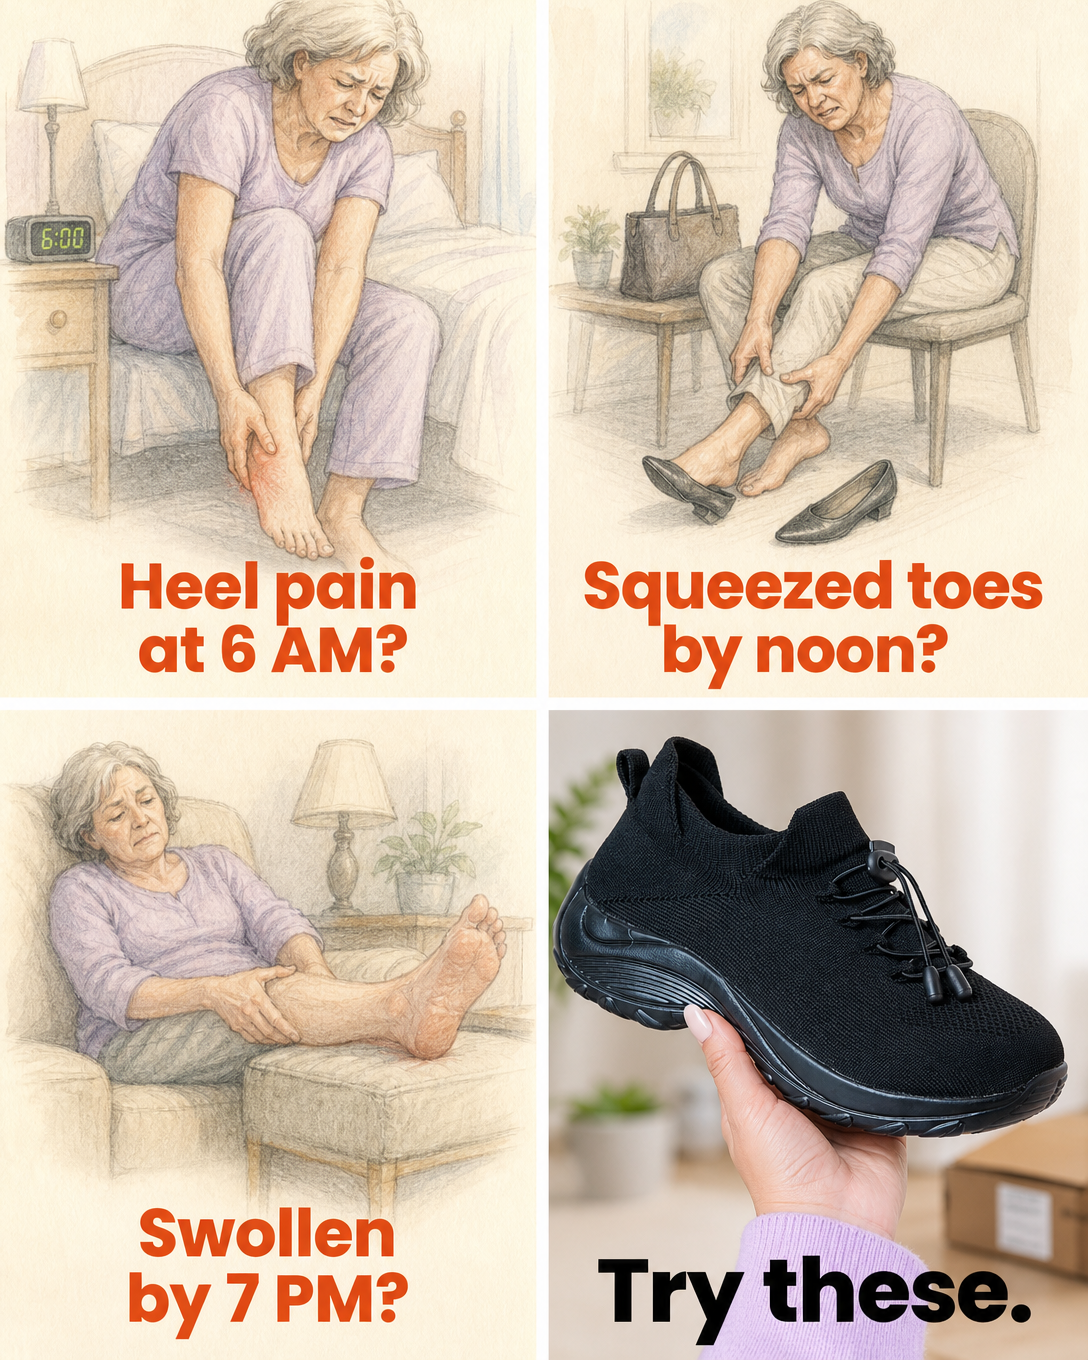
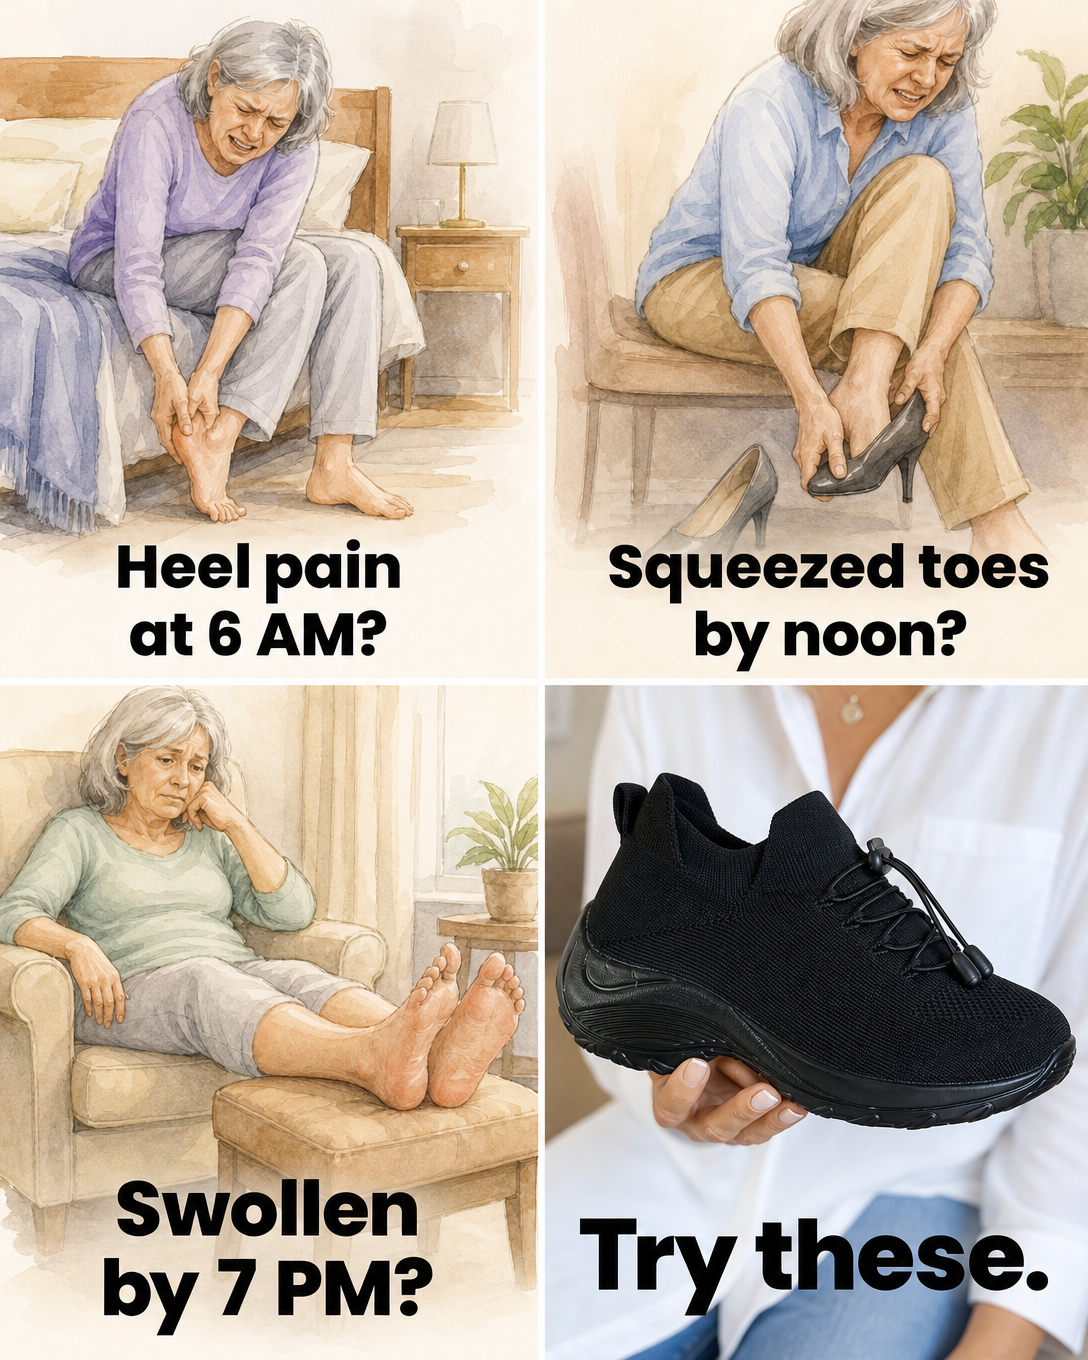
Comfort Wear: readable uniform text rule (no purple/colored words, same-size headline lines); re-render 17 W45 ads that broke it
Claude-Session: https://claude.ai/code/session_01Mp8pTr2DisTX5B79ZizYoN

diff --git a/ads/brands/comfortwear/routine_prompt.md b/ads/brands/comfortwear/routine_prompt.md
@@ -10,7 +10,7 @@ User rules (2026-10-28, apply to every concept):
 - Research every run, in order: (1) our statics with >= $10k spend (research/data/winning_statics.csv) and the current + seasonal winners, and their patterns; (2) the customer voice in research/feedback_pain_points_*.md (re-mine the Drive sheet "ComfortWear Customer Feedback (Responses)" if the file is over a month old; never commit raw rows) and our winning video scripts (research/data/video_transcripts.md) for hooks, objections, story beats and customer phrases; (3) `python ads/atria_pull.py wellness --brand comfortwear`: other health & wellness brands, not only footwear (socks, knee sleeves, supplements, grounding sheets, back-pain devices...), image, active, launched in the last 45 days, running 10+ days. Contact-sheet it (`python ads/contact_sheet.py --brand comfortwear inspiration_wellness_45d.csv --per 40`) and read every page; (4) add a dated "formats found this run" table to research/analysis.md.
 - NEW formats every run: formats come from this run's Atria research. Every concept sets format_name and format_source; formats already in research/format_ledger.json may not be reused (only proven:<slug> layouts from wellness.proven_layouts may repeat, max ~30%). `python ads/format_ledger.py --brand comfortwear check --week <folder>` must print OK before rendering; run `add` after shipping. based_on names the inspiration ad (brand, category, days running), the winner or script it is paired with, and why.
 - Copy: direct response. Pain in her words, agitate, mechanism, proof, one offer line. Headline max ~8 plain words. No puns.
-- Look: realistic, NOT AI (real phone-photo scenes or the inspiration's clean graphic layout, never glossy composites). The headline sits on the image, never in a band above the photo. Natural walking stance. Poppins for every typeset word (ExtraBold headlines, SemiBold labels), never condensed or script fonts. Supporting text large enough for women 60+.
+- Look: realistic, NOT AI (real phone-photo scenes or the inspiration's clean graphic layout, never glossy composites). The headline sits on the image, never in a band above the photo. Natural walking stance. Poppins for every typeset word (ExtraBold headlines, SemiBold labels), never condensed or script fonts. Supporting text large enough for women 60+. Text is only black, deep navy or white, never purple or other colored words (an accent color may only fill a pill or bar behind white text). Every line of the same headline is the same size and weight; supporting text one uniform size.
 - Offer on ~30% of a batch: "40% OFF" + "FREE SHIPPING" + "30-DAY MONEY-BACK GUARANTEE"; "HSA/FSA ELIGIBLE" + "UP TO 30% SAVINGS" may replace or join it. Small line, pill or seal, never the whole ad. Never 45 days. Black Friday week (Nov 9) uses program.black_friday_week_2026_11_09 instead.
 - Colors: ~80% best sellers spread across black_purple, all_black, navy_blue, black_white, red_burgundy, black_mint (none over ~20%), ~20% purple, grey_pink or light_grey. Shoes always at true proportions. Women only wear the shoe.
 - Budget: render one 4:5 per concept with `--quality medium` (~$0.08 per ad); at most one re-render per concept. Report cost per ad.
@@ -26,7 +26,7 @@ Steps:
 1. Log feedback: for each earlier folder in the Drive folder "Comfort Wear – Weekly Static Ads" (brand.json -> drive_folder_id), read its "<folder> concepts" sheet and log every filled Verdict/Notes row with `python ads/review.py log <stem>_v1 approve|reject "<notes>"`. For approved concepts with a gif block, render GIFs (`python ads/generate.py --week <folder> --gif-only <ids>`).
 2. Research as above. If Atria returns 401, note it and continue with existing research files; never search for keys.
 3. Write ads/brands/comfortwear/weeks/<folder>/concepts.json (keep existing concepts and fill to size; if already full and rendered, skip to step 5). Every concept: benchmark, format_name, format_source, based_on. Count before rendering: angle split, pain-led >= 60%, offer ~30%, colors, unique formats (format_ledger check OK). Mark 3-8 GIF candidates.
-4. Render in parallel: `python ads/generate.py --week <folder> --quality medium <ids>` (xargs -P 8). Build sheets (`python ads/review.py sheet --week <folder>`), Read every page next to the benchmarks and the inspiration ad, and re-render (once) anything that looks AI/stock, has the wrong font, an invented slogan, a headline that doesn't flow into the image, small or misspelled text, a distorted or tiny shoe, men/kids wearing it, or a fake-looking native format. Delete bad files so each concept has one static.
+4. Render in parallel: `python ads/generate.py --week <folder> --quality medium <ids>` (xargs -P 8). Build sheets (`python ads/review.py sheet --week <folder>`), Read every page next to the benchmarks and the inspiration ad, and re-render (once) anything that looks AI/stock, has the wrong font, colored (e.g. purple) words, a headline with mixed sizes, an invented slogan, a headline that doesn't flow into the image, small or misspelled text, a distorted or tiny shoe, men/kids wearing it, or a fake-looking native format. Delete bad files so each concept has one static.
 5. `python ads/format_ledger.py --brand comfortwear add --week <folder>`. Commit and push. Create Drive subfolder "<folder>" under the weekly folder (reuse if present) and a Google Sheet "<folder> concepts" from `python ads/review.py csv --week <folder>` (create_file, textContent, contentMimeType text/csv); trash an older sheet for the folder first. Also upload this run's inspiration shortlist as a Google Sheet "<folder> inspiration" (brand, category, days running, headline, why it works, image link).
 6. No Asana task. Slack: DM Samir (channel_id U04PZNV9FV0) with slack_send_message: "**Comfort Wear <Tuesday iterations|Friday net-new> ready: <folder> (<n> concepts)**", bullet links to the review sheet, the inspiration sheet, the Drive folder and the GitHub output folder (https://github.com/imsamirr/claude_code_sam/tree/claude/clever-albattani-90x4ya/ads/brands/comfortwear/weeks/<folder>/output), then one line: angle split · pain-led count · offer count · colorway split · new formats (names) · source ads (Tuesday) · GIF candidates · image cost total and per ad (`python ads/review.py cost --week <folder>`). Mention anything skipped (Atria, Drive, git push) and whether teacher reactivated.
 7. Finish with a short summary: counts by angle/pain/colorway, offer and pain-led counts, new formats and their inspiration ads, source ads used, re-renders and why, cost total and per ad, Atria status, the Drive sheet link and the Slack message link.

diff --git a/.claude/skills/static-ads/SKILL.md b/.claude/skills/static-ads/SKILL.md
@@ -126,6 +126,7 @@ prompt), and this skill.
 - **Copy: direct response.** Pain in her words → agitate (what she tried, what it cost) → mechanism (arch, heel cushion, wide toe box, grip) → proof (peer, number, story) → one offer line. Headline ≤ ~8 plain words, specific (a number, a place, a shift length). No puns.
 - **Look: realistic, NOT AI.** Real phone-photo scenes (uneven light, skin/fabric texture, grain, imperfect framing) or clean graphic layouts copied from the inspiration ad, never glossy composites. Full-bleed: the headline sits ON the image (sky, wall, floor), never in a separate band stacked above a photo. Natural walking stance (mid-stride, not two shoes planted side by side). **Poppins** for every typeset word (ExtraBold headlines, SemiBold labels); never condensed (Impact/Bebas/Anton) or script fonts; handwriting only on a real object (sticky note, cardboard sign). Legibility for women 60+ still applies. In QA, re-render anything with the wrong font, an invented slogan, or a headline that doesn't flow into the image.
 - **Offer** (~30% of a batch): "40% OFF" + "FREE SHIPPING" + "30-DAY MONEY-BACK GUARANTEE"; "HSA/FSA ELIGIBLE" + "UP TO 30% SAVINGS" may replace or join it. A line, pill or seal, never the whole ad. Black Friday week uses its own offers (`program.black_friday_week_2026_11_09`).
+- **Readable, uniform text (user 2026-10-28).** All text black, deep navy or white; never purple or other colored words (an accent color may only fill a pill/bar/block behind white text). Every line of one headline is the same size, weight and color: no oversized first word, no smaller second line, no regular/bold mixing. Supporting text is one uniform, large size. QA: re-render any ad with colored words, a headline with mixed sizes, or small text.
 - **Cartoon/animation statics: no quota.** Only when this run's inspiration research (same criteria: image, active, launched ≤45 days, 10+ days running, health & wellness) surfaces an illustrated/animated static worth borrowing; it then counts as a new format in the ledger (`program.cartoon_rule`).
 - Render one 4:5 per concept with `--quality medium` (~$0.08/ad). Older rules below still apply where they don't conflict.
 
@@ -270,7 +271,7 @@ counting `*_4x5.png` files instead.
 - a compressed, flattened, shortened or stretched shoe, or a shoe that's too small in the scene;
 - supporting text (labels, pills, checklist, offer lines) too small to read for the audience (Comfort Wear:
   women 60+, see the legibility rule in `quality_bar`);
-- purple headline/body text (purple is a small accent only);
+- any purple or other colored text, or a headline whose lines differ in size or weight (Comfort Wear rule 2026-10-28);
 - a native format that doesn't look like the real platform, or competitor logos.
 `review.py sheet` with ids overwrites page 1: delete `_preview_*` and rebuild the full sheets at the end.
 
